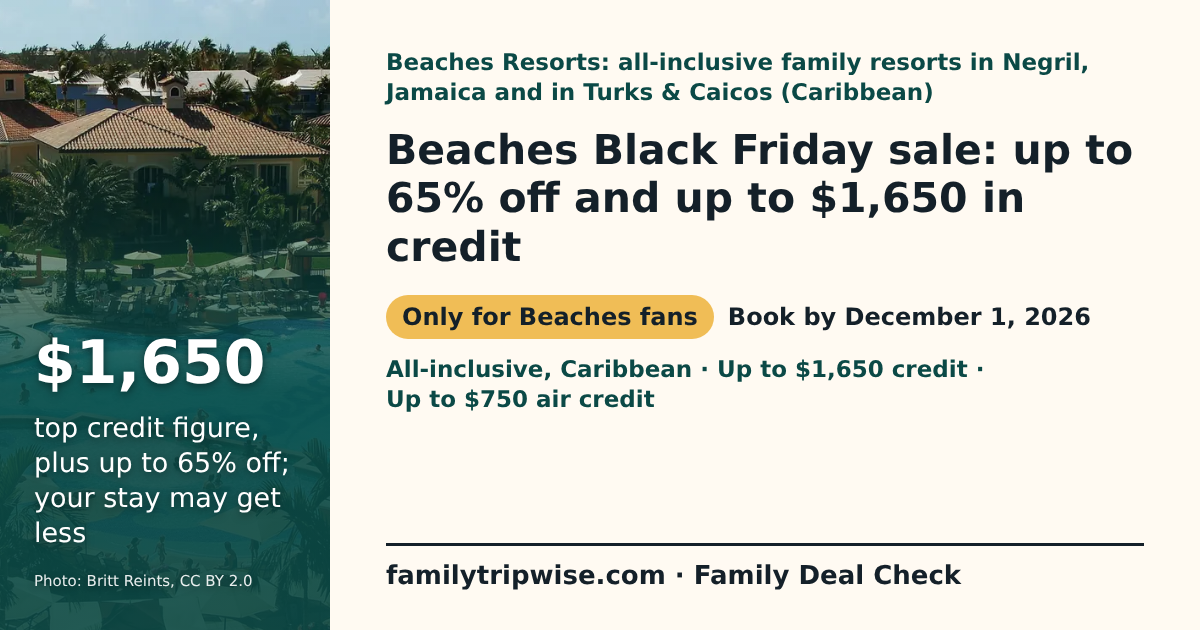
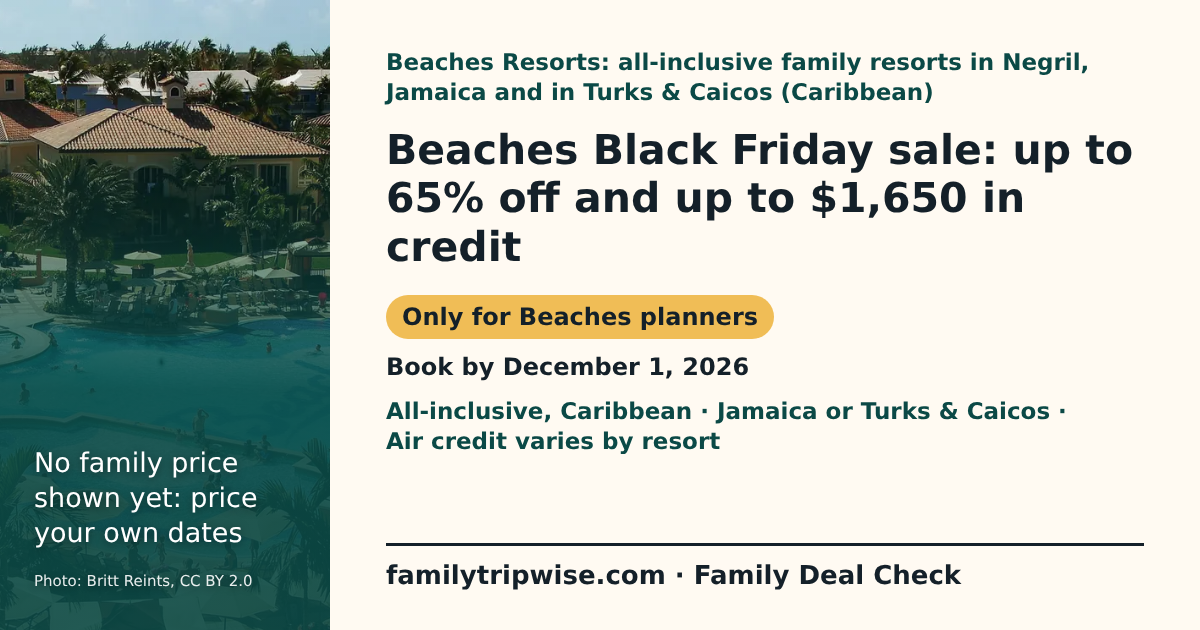
G05: Beaches Black Friday review fixes: no top-figure tile, sale tiers kept separate, trade report cited
Claude-Session: https://claude.ai/code/session_018uWk6wNVntKxWNUivHVB1J

Changed region(s): [[0.3083, 0.4524, 0.925, 0.7238], [0.0308, 0.6635, 0.2467, 0.8746], [0.0308, 0.5127, 0.2158, 0.6333]]

diff --git a/site/deals/beaches-black-friday-unlocked-2026.html b/site/deals/beaches-black-friday-unlocked-2026.html
@@ -14,7 +14,7 @@
     <meta property="og:image" content="https://familytripwise.com/images/og/deals/beaches-black-friday-unlocked-2026.png">
     <meta property="og:image:width" content="1200">
     <meta property="og:image:height" content="630">
-    <meta property="og:image:alt" content="$1,650 top credit figure, plus up to 65% off; your stay may get less">
+    <meta property="og:image:alt" content="$1,650 No family price shown yet: price your own dates">
     <meta name="twitter:card" content="summary_large_image">
     <link rel="stylesheet" href="../styles.css">
   </head>
@@ -27,18 +27,18 @@
             <p class="eyebrow deal-context">Beaches Resorts: all-inclusive family resorts in Negril, Jamaica and in Turks &amp; Caicos (Caribbean)</p>
             <h1>Beaches Black Friday sale: up to 65% off and up to $1,650 in credit</h1>
             <div class="spend-save spend-save-missing" role="group" aria-label="What it costs a family of 4"><p class="ss-title">Trip cost for 2 adults and 2 kids aged 4 and 8, a 5-night resort stay, flights extra</p><p class="ss-lead">No price estimate yet</p><p>The Beaches pages we read show no family rate for any dates. Price your dates on beaches.com and compare the total.</p></div>
-            <ul class="deal-chips" aria-label="Key terms"><li class="deal-chip-verdict deal-verdict-only_for">Only for Beaches fans</li><li>Book by December 1, 2026</li><li>All-inclusive, Caribbean</li><li>Up to $1,650 credit</li></ul>
+            <ul class="deal-chips" aria-label="Key terms"><li class="deal-chip-verdict deal-verdict-only_for">Only for Beaches planners</li><li>Book by December 1, 2026</li><li>All-inclusive, Caribbean</li><li>Jamaica or Turks &amp; Caicos</li></ul>
             
             <p class="contributor-credit">Researched with AI (<a href="../contributors/miles-rowan.html">Miles Rowan</a>) · sources linked and dated · <a href="../about.html">How we check</a></p>
           </div>
-          <div class="deal-big" aria-hidden="true"><span class="deal-big-number deal-big-number-long">$1,650</span><span class="deal-big-label">top credit figure, plus up to 65% off; your stay may get less</span></div>
+          
         </div>
       </section>
       <section id="deal-answer" class="container answer-box deal-glance" aria-label="Verdict, cost and savings">
         <p class="deal-verdict deal-verdict-only_for"><strong>Our verdict:</strong> Big top-line numbers, but no family price or tier for your stay on the pages we read.</p>
         <p><strong>Best for:</strong> Families already set on Beaches, with kids who would use Kids Camp and the water parks.</p>
         <p><strong>Not for:</strong> Anyone judging by the percent alone, or families who need a price before they look.</p>
-        <p class="deal-also"><strong>Also note:</strong> Up to $750 air credit</p>
+        <p class="deal-also"><strong>Also note:</strong> Air credit varies by resort</p>
         <p class="deal-money"><strong>Saves: up to 65% and up to $1,650 credit are top figures; we cannot say what a family of 4 saves on your dates.</strong></p>
         <p>Trip cost: we have no checked price for a family of 4. Price your dates on beaches.com and add flights from your airport (for example New York City).</p>
       </section>
@@ -49,15 +49,15 @@
       <section class="container page-section" aria-labelledby="deal-get-title">
         <h2 id="deal-get-title">What a family of 4 gets</h2>
         <p>Example family of 4: 2 adults and 2 kids aged 4 and 8, staying 5 nights.</p>
-        <ul><li>Up to 65% off rack rates, on a stay of at least 3 nights per the Turks &amp; Caicos page.</li><li>Up to $1,650 in credit overall; the listed $1,400 instant credit needs 10+ paid nights.</li><li>Up to $750 air credit at Turks &amp; Caicos and up to $500 at Negril.</li></ul>
+        <ul><li>Up to 65% off; the sale pages do not say off what. A separate listing says rack rates, with a 3-night minimum.</li><li>Up to $1,650 in credit; the pages do not say which stays get it.</li><li>Up to $750 air credit at Turks &amp; Caicos; Negril shows $500 or $750, so ask.</li></ul>
       </section>
       <section class="container page-section" aria-labelledby="deal-compare-title">
         <h2 id="deal-compare-title">Is it a good deal?</h2>
-        <ul><li>&quot;Rack rate&quot; is the resort&#39;s list price, so a percent off it does not tell you your total.</li><li>Compare the final price on your dates with another all-inclusive, not the percent.</li></ul>
+        <ul><li>&quot;Rack rate&quot; means a resort&#39;s list price, so a percent off it does not tell you your total.</li><li>Compare the final price on your dates with another all-inclusive, not the percent.</li></ul>
       </section>
       <section class="container page-section" aria-labelledby="deal-catch-title">
         <h2 id="deal-catch-title">The catch</h2>
-        <ul class="deal-catch"><li>All top figures say &quot;up to&quot;; a 5-night stay gets less than the 10+ night credit.</li><li>The pages we read show no family price, travel dates or blackout dates.</li><li>A 16-year-old prices as an adult on the booking form.</li></ul>
+        <ul class="deal-catch"><li>Every figure says &quot;up to&quot;, and the sale&#39;s own tiers are not shown.</li><li>A separate listing gives $1,000 for 7+ paid nights and $1,400 for 10+, so ask what your stay gets.</li><li>The pages we read show no family price, travel dates or blackout dates.</li></ul>
       </section>
       <section class="container page-section" aria-labelledby="deal-how-title">
         <h2 id="deal-how-title">How to get it</h2>
@@ -72,8 +72,8 @@
       <section class="container page-section" aria-labelledby="deal-proscons-title">
         <h2 id="deal-proscons-title">Pros and cons</h2>
         <div class="deal-proscons">
-          <div><h3>Pros</h3><ul><li>Kids Camp is included, and the resorts have Sesame Street shows and Pirates Island water parks.</li><li>Almost four weeks to compare prices before the sale ends.</li><li>Credit and air credit can come on top of the percent, per the sale headline.</li></ul></div>
-          <div><h3>Cons</h3><ul><li>No family price on the pages we read, so the saving is unknown.</li><li>The biggest credit needs a long stay.</li><li>Travel and blackout dates are not on the pages we read.</li></ul></div>
+          <div><h3>Pros</h3><ul><li>Kids Camp is included, and the resorts have Sesame Street shows and Pirates Island water parks.</li><li>Open until December 1, so there is time to compare prices.</li><li>Credit and air credit can come on top of the percent, per the sale headline.</li></ul></div>
+          <div><h3>Cons</h3><ul><li>No family price on the pages we read, so the saving is unknown.</li><li>The pages do not say which stays get the top credit.</li><li>Travel and blackout dates are not on the pages we read.</li></ul></div>
         </div>
       </section>
       <section class="container page-section" aria-labelledby="deal-terms-title">
@@ -84,12 +84,12 @@
             <table class="deal-terms" role="table">
               <caption>What the Beaches Resorts offer page said on November 3, 2026</caption>
               <thead role="rowgroup"><tr role="row"><th scope="col" role="columnheader">Term</th><th scope="col" role="columnheader">What the official page says</th></tr></thead>
-              <tbody role="rowgroup"><tr role="row"><th scope="row" role="rowheader">Book by</th><td role="cell">December 1, 2026; the booking window on the Beaches resort pages is November 3 to December 1, 2026.</td></tr><tr role="row"><th scope="row" role="rowheader">Travel dates</th><td role="cell">Not stated on the official pages we read. A trade report (Travel Market Report) says travel from November 3, 2026 to December 31, 2028; confirm your dates.</td></tr><tr role="row"><th scope="row" role="rowheader">Percent off</th><td role="cell">Up to 65% off rack rates. A separate listing on the Turks &amp; Caicos page says a 3-night minimum applies to that offer.</td></tr><tr role="row"><th scope="row" role="rowheader">Credit</th><td role="cell">Up to $1,650 overall, including up to $1,400 instant credit. The Turks &amp; Caicos page lists instant credit up to $1,400 for 10+ paid nights and $1,000 for 7+ paid nights, as an offer running until further notice.</td></tr><tr role="row"><th scope="row" role="rowheader">Air credit</th><td role="cell">Up to $750 at Turks &amp; Caicos and up to $500 at Negril, per the sale page. Nights and conditions are not stated on it.</td></tr><tr role="row"><th scope="row" role="rowheader">Web bonus</th><td role="cell">$100 off when booking online, per the sale page banner; no terms shown.</td></tr><tr role="row"><th scope="row" role="rowheader">Child ages</th><td role="cell">The booking form counts children as ages 2 to 15, infants as under 2, and adults as 16 and up. No sale-specific child price is stated.</td></tr></tbody>
+              <tbody role="rowgroup"><tr role="row"><th scope="row" role="rowheader">Book by</th><td role="cell">December 1, 2026; the booking window on the Beaches resort pages is November 3 to December 1, 2026.</td></tr><tr role="row"><th scope="row" role="rowheader">Travel dates</th><td role="cell">Not stated on the official pages we read; confirm your dates with Beaches.</td></tr><tr role="row"><th scope="row" role="rowheader">Percent off</th><td role="cell">Up to 65% off on the sale pages, with no base stated. A separate listing on the Turks &amp; Caicos page says up to 65% off rack rates with a 3-night minimum.</td></tr><tr role="row"><th scope="row" role="rowheader">Credit</th><td role="cell">Up to $1,650 in credit and up to $1,400 instant credit, shown side by side. A separate listing, running until further notice, shows instant credit of $1,400 for 10+ paid nights, $1,000 for 7+ and $875 for a shorter stay (minimum not readable).</td></tr><tr role="row"><th scope="row" role="rowheader">Air credit</th><td role="cell">Up to $750 at Turks &amp; Caicos and up to $500 at Negril, per the sale page. Nights and conditions are not stated on it.</td></tr><tr role="row"><th scope="row" role="rowheader">Web bonus</th><td role="cell">$100 off when booking online, per the sale page banner; no terms shown.</td></tr><tr role="row"><th scope="row" role="rowheader">Child ages</th><td role="cell">The booking form counts children as ages 2 to 15, infants as under 2, and adults as 16 and up. No sale-specific child price is stated.</td></tr></tbody>
             </table>
           </div>
         </details>
         <p><strong>Unclear on the offer page:</strong></p>
-        <ul><li>The pages we read do not say which stays get the top discount and credit, or which dates are blocked out.</li><li>Beaches&#39; older Black Friday registration page still shows 2025 terms, so those tiers and blackout dates are not used here.</li><li>The Negril page shows up to $750 air credit while the sale page shows up to $500 for Negril; ask which applies.</li></ul>
+        <ul><li>Travel dates: a trade report (Travel Market Report, not Beaches) says November 3, 2026 to December 31, 2028.</li><li>The pages we read do not say which stays get the top discount and credit, or which dates are blocked out.</li><li>Beaches&#39; older Black Friday registration page still shows 2025 terms, so those tiers and blackout dates are not used here.</li><li>The Negril page shows up to $750 air credit while the sale page shows up to $500 for Negril; ask which applies.</li></ul>
         <p class="review-label">Official page, checked November 3, 2026: <a href="https://www.beaches.com/resorts/turks-caicos/specials/">Beaches Turks &amp; Caicos specials page</a>.</p>
       </section>
       <nav class="container page-section deal-others" aria-labelledby="deal-others-title">
@@ -99,7 +99,7 @@
       </nav>
       <section class="container page-section deal-sources" aria-labelledby="deal-sources-title">
         <h2 id="deal-sources-title">Sources and how we check</h2>
-        <ul><li>The offer terms: <a href="https://www.beaches.com/resorts/turks-caicos/specials/">Beaches Turks &amp; Caicos specials page</a>, checked November 3, 2026.</li><li>Where the resorts are and what they include: <a href="https://www.beaches.com/vacations/kids/">Beaches kids and family vacations page</a>, checked October 29, 2026.</li><li>Sale name, air credit by resort, $100 web bonus: <a href="https://www.beaches.com/sale/">Beaches sale page</a>, checked November 3, 2026.</li><li>Booking window and credit headline at Negril: <a href="https://www.beaches.com/resorts/negril/specials/">Beaches Negril specials page</a>, checked November 3, 2026.</li><li>Booking form age bands: <a href="https://www.beaches.com/deals/">Beaches deals page</a>, checked November 3, 2026.</li></ul>
+        <ul><li>The offer terms: <a href="https://www.beaches.com/resorts/turks-caicos/specials/">Beaches Turks &amp; Caicos specials page</a>, checked November 3, 2026.</li><li>Where the resorts are and what they include: <a href="https://www.beaches.com/vacations/kids/">Beaches kids and family vacations page</a>, checked October 29, 2026.</li><li>Sale name, air credit by resort, $100 web bonus: <a href="https://www.beaches.com/sale/">Beaches sale page</a>, checked November 3, 2026.</li><li>Booking window and credit headline at Negril: <a href="https://www.beaches.com/resorts/negril/specials/">Beaches Negril specials page</a>, checked November 3, 2026.</li><li>Booking form age bands: <a href="https://www.beaches.com/deals/">Beaches deals page</a>, checked November 3, 2026.</li><li>Third-party report of the travel window: <a href="https://www.travelmarketreport.com/cruises/articles/2026-black-friday-travel-promotions">Travel Market Report (trade press, not Beaches)</a>, checked November 3, 2026.</li></ul>
         <p>Every term was read on the company's own pages on the dates shown. We have not booked this offer or been there ourselves. "Family of 4" notes are our reading of the terms, not a quote. We show a trip price only when we saw one on the official site for a named family and named dates. Prices and availability change: check live before you book.</p>
       </section>
     </main>

diff --git a/docs/research/deal-checks-2026-11-03.md b/docs/research/deal-checks-2026-11-03.md
@@ -6,7 +6,7 @@ Each official URL read once (WebFetch) on 2026-11-03, first reads. Lead: Travel 
 
 | Source | Observed value | Change vs previous |
 |---|---|---|
-| https://www.beaches.com/resorts/turks-caicos/specials/ | "Beaches Black Friday Sale"; "Nov. 03 - Dec. 01, 2026"; "Up to $1,650 Credit + Up to $750 Air Credit + Up to 65% Off!"; separate rack-rate offer min 3 nights; instant credit up to $1,400 10+ paid nights, $1,000 7+, $875 shorter (threshold cut off), until further notice; no kid terms, exclusions or prices in the read text | New sale |
+| https://www.beaches.com/resorts/turks-caicos/specials/ | "Beaches Black Friday Sale"; "Nov. 03 - Dec. 01, 2026"; "Up to $1,650 Credit + Up to $750 Air Credit + Up to 65% Off!"; separate listing "Save up to 65% Off Rack Rates", min 3 nights, until further notice; instant credit up to $1,400 10+ paid nights, $1,000 7+, $875 shorter (threshold cut off), until further notice; no kid terms, exclusions or prices in the read text | New sale |
 | https://www.beaches.com/resorts/negril/specials/ | Same window; up to 65%, up to $1,650 credit, up to $1,400 instant credit, up to $750 air credit | New sale |
 | https://www.beaches.com/sale/ | "Black Friday Unlocked"; up to $750 air credit Turks & Caicos, up to $500 Negril; $100 web booking bonus, no terms; "Reserve your room for just $98" with no basis | New sale; conflicts with Negril air credit |
 | https://www.beaches.com/deals/ | Black Friday Unlocked "Now On"; booking form: adults 16+, children 2-15, infants under 2 | First read |
